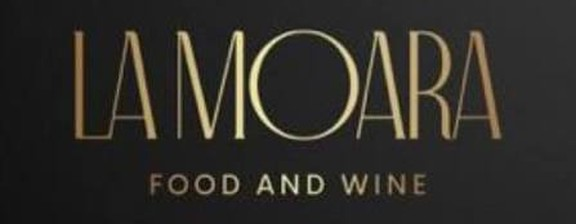
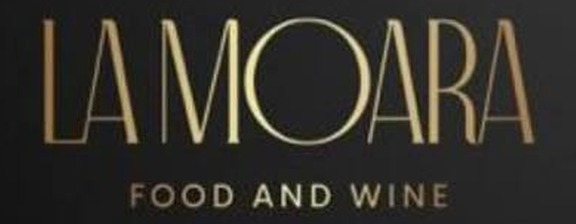
Naši partneri: uži okviri za okrugle logoe, Aleksandrović, glatka traka; Usluge pre O nama
- okrugli i kvadratni logoi (Bucino, Kafanica, Marina i Batica, Tortica, Aleksandrović) u užem okviru iste visine
- oštriji logo Jovanovića, ispravljen La Moara, uklonjen Elektro Buki
- logoi izmešani po izabranom redosledu
- traka bez maske, pomeranje na grafičkoj kartici, brzina ne zavisi od broja logoa
- posle početnog ekrana idu Usluge pa O nama

Changed region(s): [[0.0625, 0.0625, 0.9375, 0.6562], [0.2188, 0.75, 0.7812, 0.9375]]

diff --git a/src/sections/Partners.jsx b/src/sections/Partners.jsx
@@ -2,19 +2,37 @@ import { motion } from 'framer-motion'
 import { PARTNERS } from '../data'
 import { EASE } from '../lib/order'
 
-// Logoi iz src/assets/partners; ime fajla je ime partnera. Slike su unapred
-// prilagođene obliku polja (288 x 112), originali su u branding/partneri.
-const LOGOS = Object.entries(
-  import.meta.glob('../assets/partners/*.{svg,png,jpg,jpeg,webp,avif}', { eager: true, import: 'default' }),
-).map(([path, src]) => ({ name: path.split('/').pop().replace(/\.[^.]+$/, ''), src }))
+// Logoi iz src/assets/partners; ime fajla je ime partnera. Originali su u branding/partneri.
+// Široki logoi (576 x 224) su u partners/, a okrugli, kvadratni i uži (520 x 400) u partners/uski/:
+// oni dobijaju uži okvir iste visine, pa im je logo jednako krupan kao kod širokih.
+const toLogo = (narrow) => ([path, src]) => ({ name: path.split('/').pop().replace(/\.[^.]+$/, ''), src, narrow })
+// izmešan, ali uvek isti redosled (isti na serveru i u pregledaču): "slučajan" broj iz imena partnera
+const mixKey = (name) => [...name].reduce((h, ch) => (h * 31 + ch.charCodeAt(0)) % 1000003, 7)
+const mixed = (logos) => logos.sort((a, b) => mixKey(a.name) - mixKey(b.name))
+const WIDE = mixed(
+  Object.entries(import.meta.glob('../assets/partners/*.{svg,png,jpg,jpeg,webp,avif}', { eager: true, import: 'default' })).map(toLogo(false)),
+)
+const NARROW = mixed(
+  Object.entries(import.meta.glob('../assets/partners/uski/*.{svg,png,jpg,jpeg,webp,avif}', { eager: true, import: 'default' })).map(toLogo(true)),
+)
+// široki i uži naizmenično, ravnomerno raspoređeni (npr. 3 široka i 5 užih: Š U U Š U Š U U)
+const MIXED = [...WIDE.map((logo, i) => [(i + 0.5) / WIDE.length, logo]), ...NARROW.map((logo, i) => [(i + 0.5) / NARROW.length, logo])]
+  .sort((a, b) => a[0] - b[0])
+  .map(([, logo]) => logo)
+// redosled koji je izabrao vlasnik; novi partneri (kojih nema na ovom spisku) idu na kraj, izmešani kao gore
+const ORDER = ['Marina i Batica', 'Pastizza', 'Tortica 989', 'Jovanović Auto Centar Negotin', 'Bucino dućanče', 'La Moara', 'Aleksandrović', 'Kafanica']
+const place = (logo) => (ORDER.includes(logo.name) ? ORDER.indexOf(logo.name) : ORDER.length + MIXED.indexOf(logo))
+const LOGOS = [...MIXED].sort((a, b) => place(a) - place(b))
 
 const ITEMS = LOGOS.length ? LOGOS : PARTNERS.map((name) => ({ name, src: null }))
 
-// u jednom krugu trake su bar 4 logoa (dok je partnera manje, ponavljaju se)
-const PER_SET = 4
+// jedan krug trake ima bar 8 logoa (dok je partnera manje, ponavljaju se), da bude širi od ekrana
+const PER_SET = 8
 const SET = Array.from({ length: Math.ceil(PER_SET / ITEMS.length) }, () => ITEMS).flat()
-// isti krug se ponavlja nekoliko puta da traka bude puna i na širokom ekranu
-const COPIES = 4
+// dva ista kruga jedan za drugim: kad prvi izađe levo, drugi je tačno na njegovom mestu (bez trzaja)
+const COPIES = 2
+// širina kruga u "širokim poljima" (uže polje je pola širokog), za stalnu brzinu (vidi .marquee u index.css)
+const UNITS = SET.reduce((n, logo) => n + (logo.narrow ? 0.5 : 1), 0)
 
 /** Traka sa logoima partnera koja se beskonačno pomera. */
 export default function Partners({ className = '' }) {
@@ -30,9 +48,13 @@ export default function Partners({ className = '' }) {
       <h2 id="partneri" className="px-1 text-center font-body text-xs font-bold uppercase tracking-[.2em] text-red sm:text-sm">
         Naši partneri
       </h2>
-      <div className="relative min-w-0 overflow-hidden [mask-image:linear-gradient(90deg,transparent,black_6%,black_94%,transparent)]">
+      <div className="relative min-w-0 overflow-hidden">
+        {/* blagi prelaz na krajevima (obični slojevi, ne maska: maska tera telefon da prekrtava traku u svakom kadru) */}
+        <div className="pointer-events-none absolute inset-y-0 left-0 z-10 w-6 bg-gradient-to-r from-paper to-transparent sm:w-12" aria-hidden="true" />
+        <div className="pointer-events-none absolute inset-y-0 right-0 z-10 w-6 bg-gradient-to-l from-paper to-transparent sm:w-12" aria-hidden="true" />
         {/* razmak je desna margina svakog logoa (ne gap), da jedan krug bude tačno 1/COPIES trake i da nema trzaja */}
-        <ul className="marquee flex w-max" style={{ '--copies': COPIES }}>
+        {/* brzina ne zavisi od broja partnera ni od ekrana (vidi .marquee u index.css); staje dok je miš preko trake */}
+        <ul className="marquee flex w-max hover:[animation-play-state:paused]" style={{ '--copies': COPIES, '--units': UNITS }}>
           {loop.map((partner, i) => (
             <li
               key={i}
@@ -40,11 +62,15 @@ export default function Partners({ className = '' }) {
               className={`mr-3 grid shrink-0 place-items-center overflow-hidden rounded-xl border border-line bg-white sm:mr-4 ${
                 partner.src ? '' : 'px-3'
               } ${
-                partner.src ? 'h-[72px] w-44 sm:h-24 sm:w-64 lg:h-28 lg:w-72' : 'h-12 w-32 sm:h-14 sm:w-40'
+                !partner.src
+                  ? 'h-12 w-32 sm:h-14 sm:w-40'
+                  : partner.narrow
+                    ? 'h-[100px] w-[130px] sm:h-[136px] sm:w-[177px] lg:h-[156px] lg:w-[203px]'
+                    : 'h-[100px] w-[257px] sm:h-[136px] sm:w-[350px] lg:h-[156px] lg:w-[401px]'
               }`}
             >
               {partner.src ? (
-                <img src={partner.src} alt={partner.name} loading="lazy" className="h-full w-full object-cover" />
+                <img src={partner.src} alt={partner.name} decoding="sync" draggable="false" className="h-full w-full object-cover" />
               ) : (
                 <span className="text-sm font-semibold text-mute">{partner.name}</span>
               )}

diff --git a/src/index.css b/src/index.css
@@ -254,13 +254,28 @@
 }
 
 @keyframes slide {
+  from {
+    transform: translate3d(0, 0, 0);
+  }
   to {
-    transform: translateX(calc(-100% / var(--copies, 2)));
+    transform: translate3d(calc(-100% / var(--copies, 2)), 0, 0);
   }
 }
+/* traka partnera: trajanje = širina kruga (--units, u širokim poljima) x vreme za jedno polje, oko 50 px/s */
 .marquee {
   will-change: transform;
-  animation: slide 24s linear infinite;
+  backface-visibility: hidden;
+  animation: slide calc(var(--units, 8) * 5.4s) linear infinite;
+}
+@media (min-width: 640px) {
+  .marquee {
+    animation-duration: calc(var(--units, 8) * 7.3s);
+  }
+}
+@media (min-width: 1024px) {
+  .marquee {
+    animation-duration: calc(var(--units, 8) * 8.3s);
+  }
 }
 @media (prefers-reduced-motion: reduce) {
   .marquee,

diff --git a/src/sections/Hero.jsx b/src/sections/Hero.jsx
@@ -83,7 +83,7 @@ export default function Hero() {
     <section ref={ref} id="pocetna" className="relative h-[260vh]">
       {/* visina = ekran + pola trake partnera: pri učitavanju se logoi vide "napola preseceni",
           a početni ekran dobija skoro ceo prostor */}
-      <div className="sticky top-0 flex h-[calc(100svh+48px)] flex-col gap-3 px-3 pb-3 pt-[84px] sm:h-[calc(100svh+60px)] sm:px-5 sm:pt-[88px] lg:h-[calc(100svh+68px)]">
+      <div className="sticky top-0 flex h-[calc(100svh+62px)] flex-col gap-3 px-3 pb-3 pt-[84px] sm:h-[calc(100svh+80px)] sm:px-5 sm:pt-[88px] lg:h-[calc(100svh+90px)]">
         <div className="relative min-h-0 flex-1 overflow-hidden rounded-[28px] bg-ink text-white">
           {/* pozadina */}
           {HERO_BG ? (

diff --git a/src/components/Thumb.jsx b/src/components/Thumb.jsx
@@ -6,7 +6,7 @@ const IMAGES = Object.fromEntries(
 )
 
 // Logoi lokala (288 x 112): src/assets/partners (vide se i u traci "Naši partneri") i src/assets/logos
-// (samo na kartici i meniju lokala). Lokal sa `logo: 'Pastizza'` prikazuje fajl tog imena.
+// (samo na kartici i meniju lokala; tu su i široke verzije logoa koji su u traci u užem okviru, npr. Kafanica).
 const LOGOS = Object.fromEntries(
   Object.entries(import.meta.glob('../assets/{partners,logos}/*.{svg,png,jpg,jpeg,webp,avif}', { eager: true, import: 'default' })).map(([path, url]) => [
     path.split('/').pop().replace(/\.[^.]+$/, ''),

diff --git a/src/data.js b/src/data.js
@@ -38,8 +38,8 @@ export const RADIO = [
 
 export const NAV = [
   { href: '#pocetna', label: 'Početna' },
-  { href: '#o-nama', label: 'O nama' },
   { href: '#usluge', label: 'Usluge' },
+  { href: '#o-nama', label: 'O nama' },
   { href: '#recenzije', label: 'Recenzije' },
   { href: '#pitanja', label: 'Pitanja' },
   { href: '#kontakt', label: 'Kontakt' },

diff --git a/src/App.jsx b/src/App.jsx
@@ -60,8 +60,8 @@ export default function App() {
             {path === '/' ? (
               <main>
                 <Hero />
-                <About />
                 <Services />
+                <About />
                 <Reviews />
                 <Faq />
                 <Contact />
